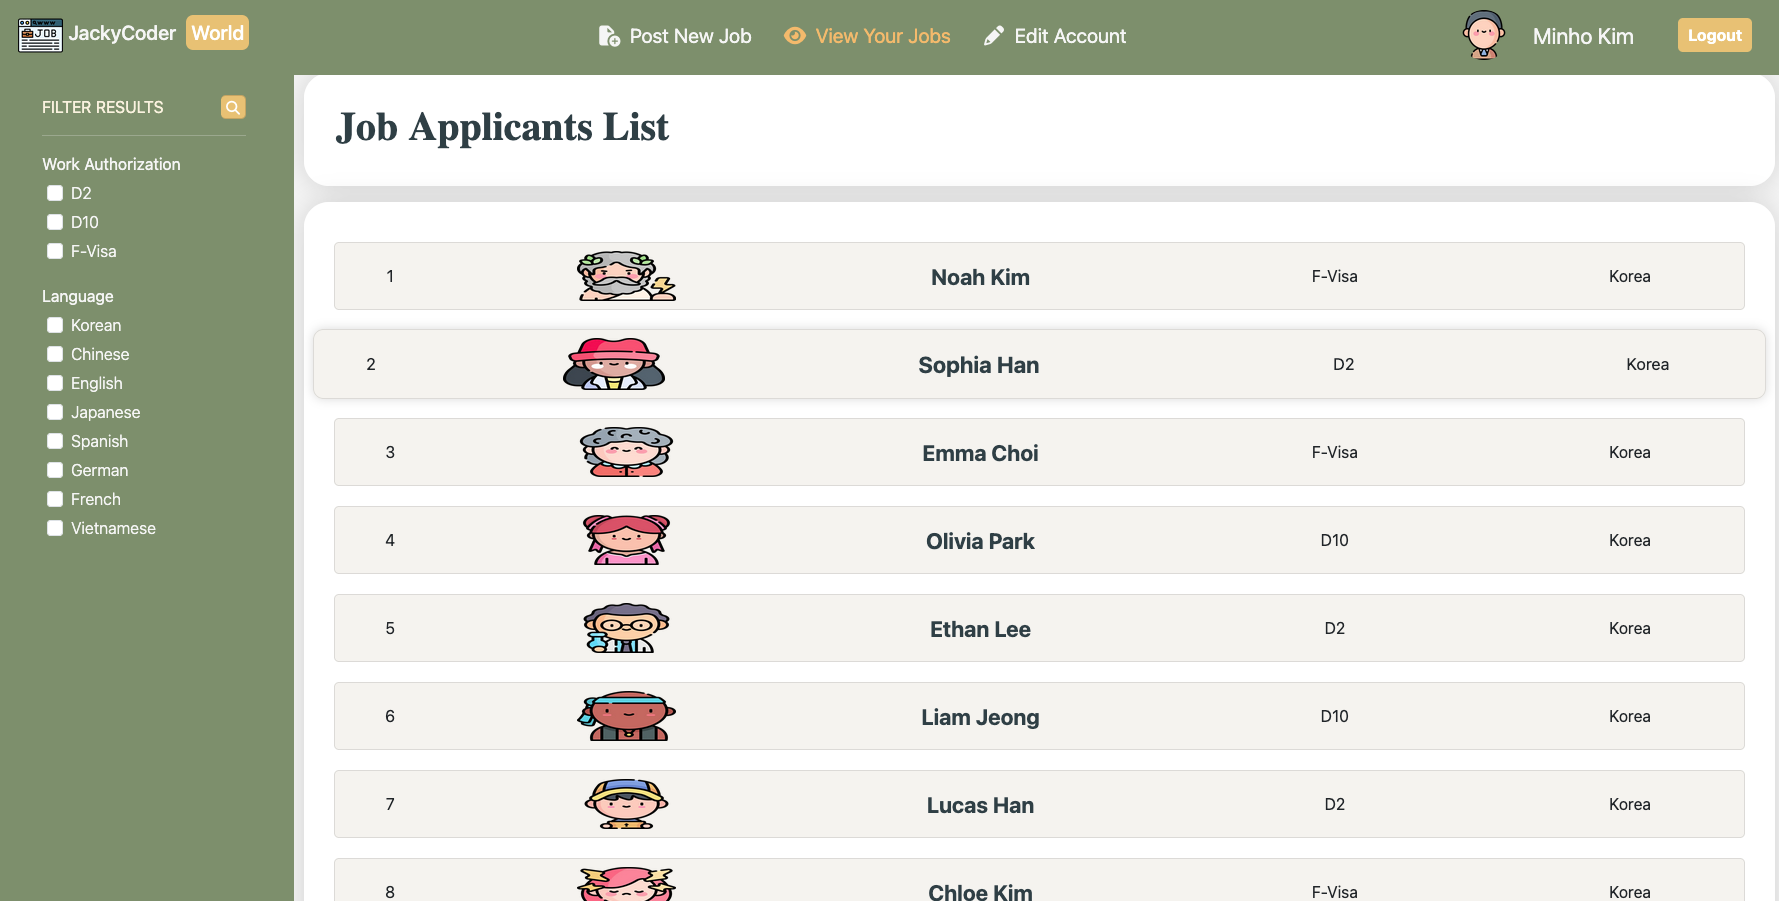
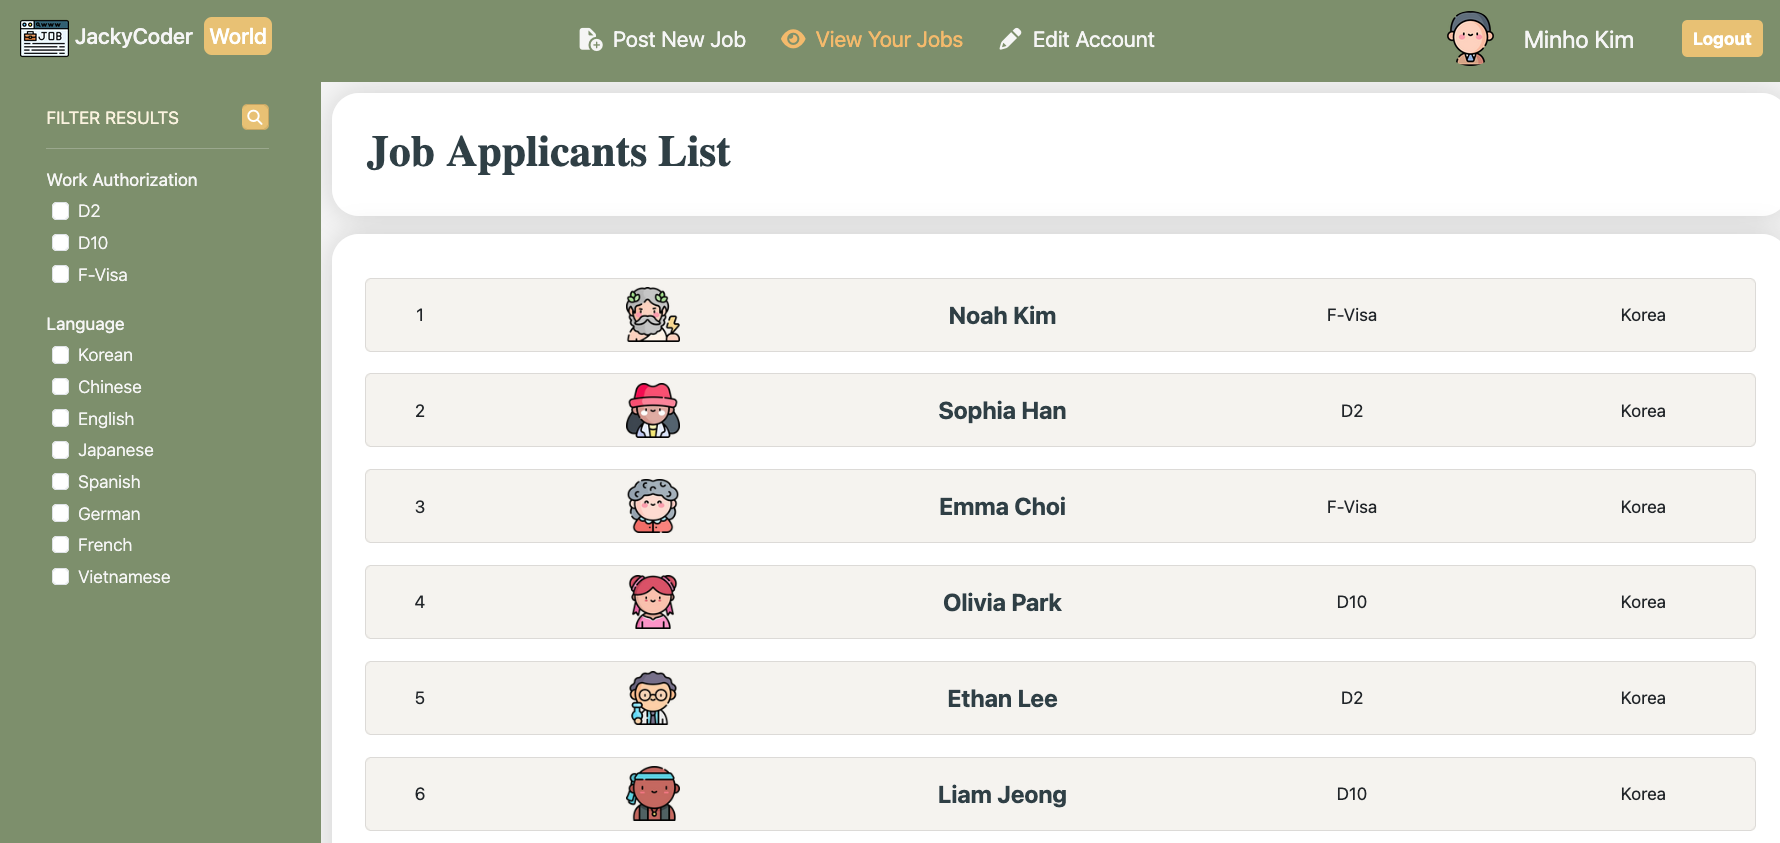
新增圖片

diff --git a/src/main/resources/templates/job-applicants-list.html b/src/main/resources/templates/job-applicants-list.html
@@ -273,8 +273,8 @@
                 <div class="col-md-3 d-flex align-items-center justify-content-center" style="height: 50px">
                   <img th:src="@{${jobSeekerApply.userId.photosImagePath}}"
                        alt="Profile Photo"
-                       width="30%"
-                       height="100%"/>
+                       width="50px"
+                       height="50px"/>
                 </div>
 
                 <div class="col-md-3 d-flex align-items-center justify-content-center">
